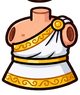
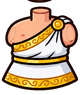
divine: Zeus puppet arms tucked behind the shoulders, sockets filled (owner: hide the joints)
Claude-Session: https://claude.ai/code/session_01TXxUxPecwzvu4yaBN5DPQG

diff --git a/tools/art/divine_puppet.py b/tools/art/divine_puppet.py
@@ -14,14 +14,20 @@ BOX = {'head': (590, 5, 1000, 362), 'bolt': (165, 315, 378, 790), 'torso': (625,
        'handF': (1025, 625, 1170, 786), 'handW': (405, 635, 580, 765), 'legL': (553, 762, 736, 1012), 'legR': (834, 762, 1014, 1012)}
 SC = {'head': 1.12}   # the head a little bigger: chibi proportions like Codex's idle picture
 # name: (parent, attach point on the parent (raw), own joint (raw), world rest angle in degrees); draw order = list order
-PUP = [
+PUP = [   # owner "ทำไมไม่ซ่อนไว้ใต้แขน": the upper arms hang BEHIND the torso, so the ball joints hide under the shoulders
     ('legL', 'torso', (722, 708), (645, 792), 0), ('legR', 'torso', (862, 708), (924, 792), 0),
+    ('armF', 'torso', (900, 520), (1055, 437), 22), ('armW', 'torso', (674, 520), (547, 440), 14),
     ('torso', None, None, (790, 600), 0),
-    ('armF', 'torso', (904, 516), (1055, 437), 22), ('handF', 'armF', (1143, 566), (1088, 664), -4),
+    ('handF', 'armF', (1143, 566), (1088, 664), -4),
     ('head', 'torso', (787, 452), (790, 352), 0),
-    ('bolt', 'handW', (474, 694), (268, 558), 14), ('armW', 'torso', (670, 516), (547, 440), 14), ('handW', 'armW', (456, 566), (538, 686), -40),
+    ('bolt', 'handW', (474, 694), (268, 558), 14), ('handW', 'armW', (456, 566), (538, 686), -40),
 ]
 src = np.array(Image.open(SRC).convert('RGBA')); src[src[..., 3] < 120] = 0
+# the torso's shoulder sockets (brown holes) become skin, so the shoulder looks whole when the arm is tucked behind it
+yy, xx = np.mgrid[0:src.shape[0], 0:src.shape[1]]; c = src[..., :3].astype(int)
+for sx, sy in ((665, 513), (908, 513)):
+    hole = (np.hypot(xx - sx, yy - sy) < 36) & (c[..., 0] > 60) & (c[..., 0] < 170) & (c[..., 1] < 75) & (c[..., 2] < 55) & (c[..., 0] > c[..., 1] * 1.7)
+    src[hole, :3] = (253, 181, 142)
 order = [p[0] for p in PUP]; spec = {p[0]: p[1:] for p in PUP}; world = {}
 def rot(v, a): c, s = math.cos(a), math.sin(a); return (v[0] * c - v[1] * s, v[0] * s + v[1] * c)
 for n in ['torso', 'legL', 'legR', 'armF', 'handF', 'head', 'armW', 'handW', 'bolt']:   # parents first

diff --git a/docs/action-game.md b/docs/action-game.md
@@ -2785,4 +2785,5 @@ Owner sent a small picture labelled "PROJECTILE SHAPE": "p เปลี่ยน
   - Monkey King set (`codex/divine-wukong`, brief item C) brought in by hand: the raw files + report, `divine_sets.py` -> `wukong_*`, `PSET.asia = 'wukong'`, his fireball picture flies on Asia hits, his spirit stands behind a mythic, and his cut-out rig is added to `divine_rig.py` (the staff swings).
   - All 4 gods now have their own Codex art and moving parts. Checked: lobby, match, fight, result, bot run; no console errors.
   - Next: if the owner likes the puppet, order PARTS for Thor / Anubis / Monkey King too. Ask Codex for the exploded puppet SHEET only (that is the good part), not the final 512 cuts.
+- 2026-11-26 (owner "ทำไมไม่ซ่อนไว้ใต้แขนละ"): the Zeus puppet's upper arms now hang BEHIND the torso, so the ball joints hide under the shoulders. The torso's brown shoulder sockets are filled with skin in `divine_puppet.py`. Hands and the bolt are still drawn in front. Use the same rule for every future puppet.
 
